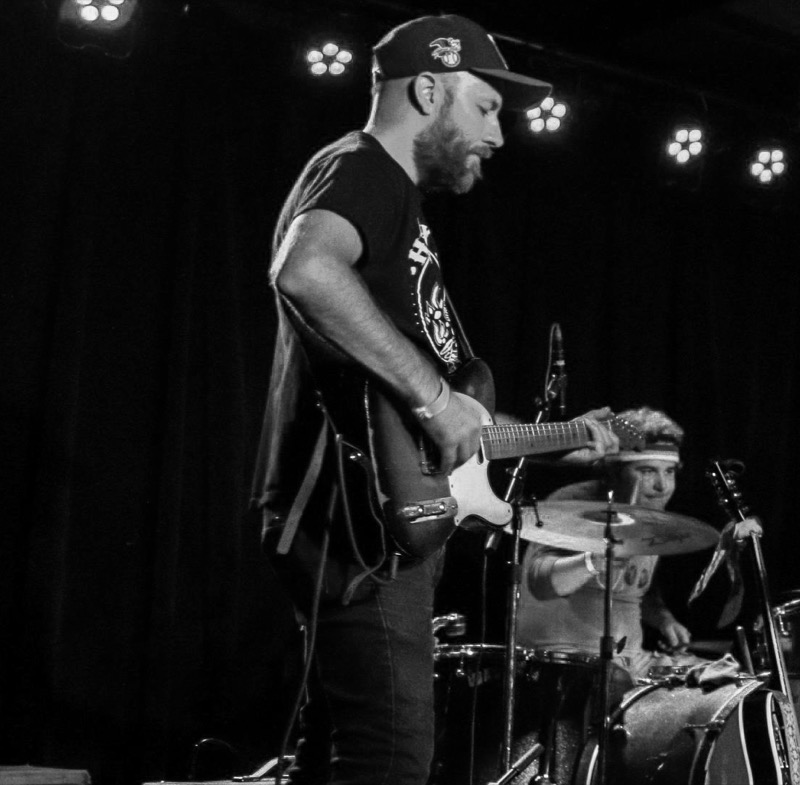
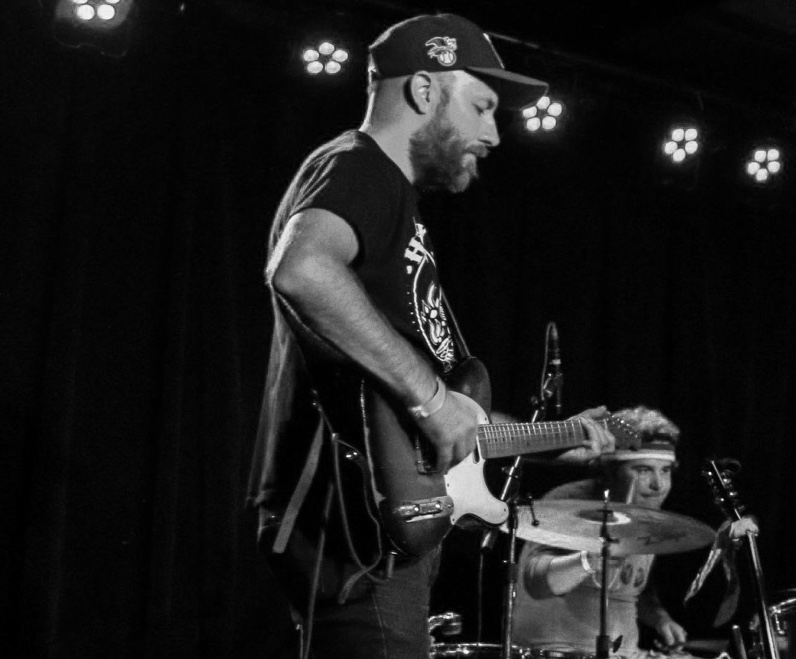
Update from cyan to yellow.

diff --git a/admin.html b/admin.html
@@ -1,0 +1,46 @@
+<!DOCTYPE html>
+<html lang="en">
+<head>
+  <meta charset="UTF-8">
+  <meta name="viewport" content="width=device-width, initial-scale=1.0">
+  <title>Admin — Tumbling Daisies</title>
+  <link rel="preconnect" href="https://fonts.googleapis.com">
+  <link rel="preconnect" href="https://fonts.gstatic.com" crossorigin>
+  <link href="https://fonts.googleapis.com/css2?family=Sancreek&family=EB+Garamond:ital,wght@0,400;0,500;0,600;0,700;1,400;1,500&family=Josefin+Sans:wght@300;400;600&display=swap" rel="stylesheet">
+  <link rel="icon" type="image/png" href="assets/favicon.png">
+  <link href="https://fonts.googleapis.com/css2?family=IBM+Plex+Mono:wght@400;500;600&display=swap" rel="stylesheet">
+  <link rel="stylesheet" href="css/style.css">
+  <style>
+    .admin-wrap {
+      max-width: 600px;
+      margin: 0 auto;
+      padding: 60px 20px;
+    }
+    .admin-wrap, .admin-wrap * {
+      font-family: 'IBM Plex Mono', monospace;
+    }
+    .admin-title {
+      font-size: 32px;
+      font-weight: 600;
+      color: hsl(0, 0%, 80%);
+      margin-bottom: 40px;
+    }
+    .admin-section h2 {
+      font-size: 14px;
+      font-weight: 500;
+      text-transform: uppercase;
+      letter-spacing: 0.1em;
+      color: hsl(0, 0%, 55%);
+      margin-bottom: 20px;
+    }
+  </style>
+</head>
+<body>
+
+  <div class="admin-wrap">
+    <a href="index.html" style="color: hsl(0, 0%, 55%); font-size: 13px; text-decoration: none;">&larr; Back to site</a>
+    <h1 class="admin-title">Admin</h1>
+  </div>
+
+</body>
+</html>

diff --git a/css/style.css b/css/style.css
@@ -3,9 +3,10 @@
    ============================================ */
 
 :root {
-  --cyan: hsl(200, 50%, 68%);
-  --red: hsl(0, 73%, 41%);
-  --red-hover: hsl(0, 69%, 55%);
+  --cyan: hsl(50, 90%, 60%);
+  --pull-quote-color: var(--cyan);
+  --red: hsl(50, 90%, 60%);
+  --red-hover: hsl(50, 95%, 70%);
   --text: hsl(0, 0%, 18%);
   --text-light: hsl(0, 0%, 45%);
   --bg: hsl(0, 0%, 100%);
@@ -216,7 +217,7 @@ a:hover {
   font-family: 'EB Garamond', serif;
   font-style: italic;
   font-size: 24px;
-  color: var(--cyan);
+  color: var(--pull-quote-color);
   line-height: 1.5;
   max-width: 640px;
   margin: 0 auto;
@@ -294,7 +295,7 @@ a:hover {
 
 .photo-download:hover {
   background: var(--red);
-  color: #fff;
+  color: hsl(0, 0%, 10%);
 }
 
 .photo-full {
@@ -571,7 +572,7 @@ body.has-player {
   letter-spacing: 0.1em;
   padding: 10px 28px;
   background: var(--red);
-  color: #fff;
+  color: hsl(0, 0%, 10%);
   border: none;
   border-radius: 3px;
   cursor: pointer;
@@ -581,7 +582,7 @@ body.has-player {
 
 .btn:hover {
   background: var(--red-hover);
-  color: #fff;
+  color: hsl(0, 0%, 10%);
 }
 
 /* --- Contact Page --- */
@@ -768,6 +769,10 @@ body.has-player {
   .hero {
     height: 35vh;
     min-height: 200px;
+  }
+
+  .hero-photos img:first-child {
+    object-position: calc(50% + 75px) bottom;
   }
 
   .hero-title {